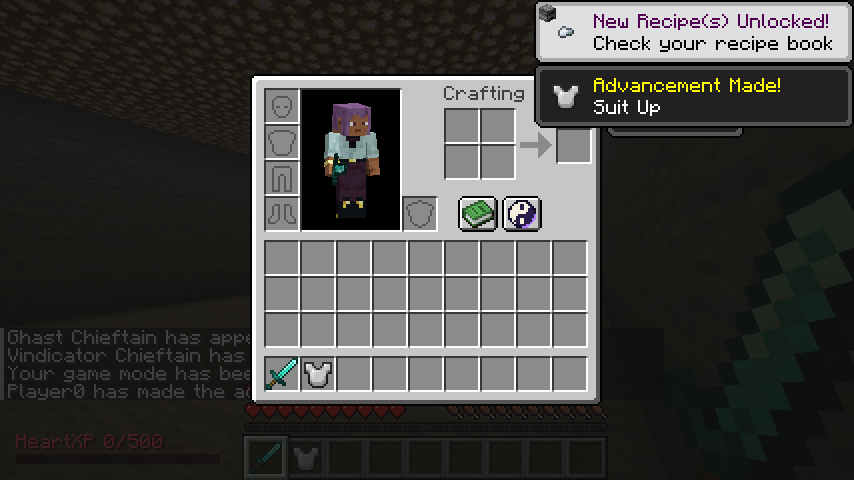
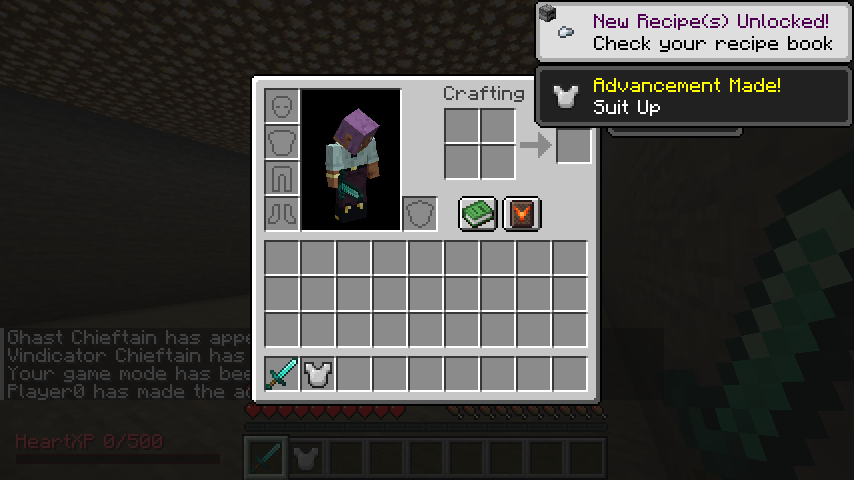
Cultivation button: stone tablet with spirit wings; Nether Star on the Stats tab (D40)

Changed region(s): [[0.3653, 0.2188, 0.4567, 0.4375], [0.5785, 0.4062, 0.6393, 0.4688]]

diff --git a/mods/permahearts/tools/make_stats_sprites.py b/mods/permahearts/tools/make_stats_sprites.py
@@ -1,12 +1,10 @@
-"""Draws the stats button and tab icon (D39): a taiji (yin-yang) symbol, the Daoist mark of cultivation.
+"""Draws the cultivation panel button (D40): a stone tablet in warm brown tones with red-orange spirit wings,
+on a rounded button in the style of the recipe book button. Original art (the Stats tab shows the Nether Star item).
 
-- stats/icon.png (16x16): the symbol, used on the Stats tab.
-- stats/button.png, stats/button_highlighted.png (20x18): a rounded button in the style of the recipe book button,
-  with the symbol on it.
+- stats/button.png, stats/button_highlighted.png (20x18)
 Run: python3 -I mods/permahearts/tools/make_stats_sprites.py
 """
 import importlib.util
-import math
 import os
 
 HERE = os.path.dirname(__file__)
@@ -17,40 +15,43 @@ write_png, rgba, CLEAR = hearts.write_png, hearts.rgba, hearts.CLEAR
 
 OUT = os.path.join(HERE, "..", "src", "main", "resources", "assets", "permahearts", "textures", "gui", "sprites", "stats")
 
-YANG = rgba("f6efdc")   # ivory
-YIN = rgba("2b1d4a")    # deep indigo
-RIM = rgba("120a24")    # outline
-GLOW = rgba("b07cff")   # violet qi on the rim's lower right
+SLAB = {"o": "211515", "k": "352323", "d": "49312b", "m": "584737", "l": "7a5d4c", "L": "947662"}
+EMBLEM = {"d": "8a1a0a", "m": "d43a10", "b": "ff6a1a", "h": "ffb04a"}
+WINGS = [  # 8x8, placed at (4, 4) on the tablet
+    "m......m",
+    "mb....bm",
+    ".mb..bm.",
+    ".mbhhbm.",
+    "..bhhb..",
+    "...bb...",
+    "...mm...",
+    "...dd...",
+]
 
 
-def taiji(size, radius):
-    """size x size image, taiji of the given radius centred in it."""
-    c = size / 2
-    img = [[CLEAR] * size for _ in range(size)]
-    for y in range(size):
-        for x in range(size):
-            px, py = x + 0.5, y + 0.5
-            d = math.hypot(px - c, py - c)
-            if d > radius:
+def tablet_icon():
+    """16x16: a stone tablet with chipped corners, light top-left edge, dark bottom-right, and the wings on it."""
+    img = [[CLEAR] * 16 for _ in range(16)]
+    for y in range(16):
+        for x in range(16):
+            if not (2 <= x <= 13 and 1 <= y <= 14) or (x in (2, 13) and y in (1, 14)):
                 continue
-            if d > radius - 1:
-                # rim: violet glow on the lower right, dark elsewhere
-                img[y][x] = GLOW if (px - c) + (py - c) > radius * 0.9 else RIM
-                continue
-            r2 = radius / 2
-            top = math.hypot(px - c, py - (c - r2))
-            bottom = math.hypot(px - c, py - (c + r2))
-            if top <= r2 * 0.36:
-                col = YIN       # dot in the yang head
-            elif bottom <= r2 * 0.36:
-                col = YANG      # dot in the yin head
-            elif top <= r2:
-                col = YANG
-            elif bottom <= r2:
-                col = YIN
+            edge = x in (2, 13) or y in (1, 14) or (x in (3, 12) and y in (1, 14)) or (y in (2, 13) and x in (2, 13))
+            if edge:
+                c = SLAB["o"]
+            elif y == 2 and x == 3:
+                c = SLAB["L"]
+            elif y == 2 or x == 3:
+                c = SLAB["l"]
+            elif y == 13 or x == 12:
+                c = SLAB["k"]
             else:
-                col = YANG if px < c else YIN
-            img[y][x] = col
+                c = SLAB["d"] if (x * 7 + y * 3) % 5 < 2 else SLAB["m"]
+            img[y][x] = rgba(c)
+    for y, row in enumerate(WINGS):
+        for x, ch in enumerate(row):
+            if ch != ".":
+                img[4 + y][4 + x] = rgba(EMBLEM[ch])
     return img
 
 
@@ -79,17 +80,16 @@ def button(highlighted):
         img[y][19] = edge
         for x in range(2, 18):
             img[y][x] = face
-    icon = taiji(14, 7)
-    for y in range(14):
-        for x in range(14):
-            if icon[y][x] != CLEAR:
-                img[2 + y][3 + x] = icon[y][x]
+    icon = tablet_icon()
+    for y in range(16):
+        for x in range(16):
+            if icon[y][x] != CLEAR and 1 <= y + 1 <= 16 and 1 <= x + 2 <= 18:
+                img[y + 1][x + 2] = icon[y][x]
     return img
 
 
 def main():
     os.makedirs(OUT, exist_ok=True)
-    write_png(os.path.join(OUT, "icon.png"), taiji(16, 7.5))
     write_png(os.path.join(OUT, "button.png"), button(False))
     write_png(os.path.join(OUT, "button_highlighted.png"), button(True))
     print("wrote stats sprites to", os.path.normpath(OUT))

diff --git a/mods/permahearts/src/client/java/io/github/huydangtruong/permahearts/client/StatsPanel.java b/mods/permahearts/src/client/java/io/github/huydangtruong/permahearts/client/StatsPanel.java
@@ -26,7 +26,7 @@ import net.minecraft.world.item.Items;
 import net.minecraft.world.item.ItemStack;
 
 /**
- * Cultivation panel (D31, D39): a rounded taiji button next to the recipe book button in the survival inventory opens a
+ * Cultivation panel (D31, D39, D40): a rounded tablet button next to the recipe book button in the survival inventory opens a
  * panel on the left with tabs like the recipe book's. Stats tab: each stat as "total (base +gear +cultivation)", the
  * Vitality bonus and the respawn point. Techniques tab: empty for now. Works like the recipe book: the inventory moves
  * right, and opening one closes the other. Data comes from the server (StatsSync), once a second.
@@ -53,7 +53,6 @@ public final class StatsPanel {
 
 	private static final Identifier BUTTON = Identifier.fromNamespaceAndPath("permahearts", "stats/button");
 	private static final Identifier BUTTON_HOVER = Identifier.fromNamespaceAndPath("permahearts", "stats/button_highlighted");
-	private static final Identifier TAIJI = Identifier.fromNamespaceAndPath("permahearts", "stats/icon");
 
 	/** Panel tabs, top to bottom. */
 	public enum Tab {
@@ -252,7 +251,7 @@ public final class StatsPanel {
 		};
 	}
 
-	/** Same size and rounded style as the recipe book button, with a taiji (tools/make_stats_sprites.py). */
+	/** Same size and rounded style as the recipe book button: a stone tablet with spirit wings (tools/make_stats_sprites.py). */
 	private static final class StatsButton extends Button {
 		StatsButton(InventoryScreen inv) {
 			super(0, 0, 20, 18, Component.literal("Cultivation"), b -> toggle(inv), DEFAULT_NARRATION);
@@ -267,7 +266,8 @@ public final class StatsPanel {
 
 	/** A tab on the panel's left edge, drawn with the vanilla recipe book tab sprites. */
 	private static final class TabButton extends Button {
-		private static final ItemStack BOOK = new ItemStack(Items.ENCHANTED_BOOK);
+		private static final ItemStack STAR = new ItemStack(Items.NETHER_STAR); // Stats tab (D40)
+		private static final ItemStack BOOK = new ItemStack(Items.ENCHANTED_BOOK); // Techniques tab
 		private final Tab tab;
 
 		TabButton(Tab t) {
@@ -283,11 +283,7 @@ public final class StatsPanel {
 			int x = getX() - (selected ? 2 : 0);
 			g.blitSprite(RenderPipelines.GUI_TEXTURED,
 				Identifier.withDefaultNamespace(selected ? "recipe_book/tab_selected" : "recipe_book/tab"), x, getY(), TAB_W, TAB_H);
-			if (tab == Tab.STATS) {
-				g.blitSprite(RenderPipelines.GUI_TEXTURED, TAIJI, x + 9, getY() + 5, 16, 16);
-			} else {
-				g.fakeItem(BOOK, x + 9, getY() + 5);
-			}
+			g.fakeItem(tab == Tab.STATS ? STAR : BOOK, x + 9, getY() + 5);
 		}
 	}
 }

diff --git a/docs/system/01-decisions.md b/docs/system/01-decisions.md
@@ -40,4 +40,5 @@
 | D36 | Trần 100 tim, thanh tim nhiều lớp | Trần ~~100~~ → **300** (D37). Trần tim **100** (thay D7). Thanh tim **tối đa 2 hàng** (20 tim): tim 21–40 vẽ đè lên tim 1–20 bằng màu **cam**, bắt đầu từ tim đầu tiên của hàng thứ nhất; 41–60 **hồng**, 61–80 **tím**, 81–100 **xanh dương**. Mất máu thì mất tim của lớp trên cùng trước (tim khác màu). Tới 20 tim vẫn y như vanilla. Trúng độc/wither/đóng băng thì mọi tim đổi màu như vanilla; tim vàng (absorption) nằm ở hàng phía trên; thanh giáp nằm ngay trên 2 hàng tim. Cần mod ở máy người chơi (người không có mod thấy thanh vanilla nhiều hàng) | 2026-11-14 |
 | D37 | Trần 300 tim, màu và hoạ tiết tim | Trần tim **300** (thay D36). Mỗi 20 tim một lớp, vẫn tối đa 2 hàng: 1–100 màu tươi (đỏ, cam, hồng, tím, xanh dương), 101–200 màu nhạt (**san hô, đào, hồng phấn, oải hương, bạc hà**), 201–300 tim hoạ tiết: **Hoa anh đào** (201–220), **Thiên hà** (221–240), ~~Lửa linh hồn (241–260), Lửa đỏ (261–280), Dung nham (281–300)~~ → sửa ở D38. Không dùng viền. Hình vẽ bằng `mods/permahearts/tools/make_heart_sprites.py` | 2026-11-14 |
 | D38 | Thứ tự tim 241–300 | 241–260 **Lửa xanh lá** (Lửa đỏ đổi màu, đặt trước Lửa linh hồn), 261–280 **Lửa linh hồn**, 281–300 **Huyết nham** (đỏ thẫm) là mức đỉnh; mẫu Huyết nham: **Giọt nham** (vỏ nguội đỏ đen ở trên, đáy rực sáng) | 2026-11-14 |
-| D39 | Nút và tab của bảng chỉ số | Nút mở bảng (cạnh nút sách công thức) đổi thành biểu tượng **Thái cực** (âm dương, viền ánh tím), **bo góc** cùng kiểu với nút sách công thức; tên/tooltip "Cultivation". Bảng bên trái có **tab** như sách công thức: tab 1 **Stats** (chỉ số như D31), tab 2 **Techniques** (chiêu thức, hiện để trống — Huy mô tả sau). Hình vẽ bằng `mods/permahearts/tools/make_stats_sprites.py` | 2026-11-14 |
+| D39 | Nút và tab của bảng chỉ số | Nút mở bảng (cạnh nút sách công thức) đổi thành biểu tượng ~~Thái cực~~ (→ D40), **bo góc** cùng kiểu với nút sách công thức; tên/tooltip "Cultivation". Bảng bên trái có **tab** như sách công thức: tab 1 **Stats** (chỉ số như D31), tab 2 **Techniques** (chiêu thức, hiện để trống — Huy mô tả sau). Hình vẽ bằng `mods/permahearts/tools/make_stats_sprites.py` | 2026-11-14 |
+| D40 | Biểu tượng nút và tab Stats | Nút mở bảng: **phiến đá** tông nâu ấm (như phiến của mẫu rèn Host) với biểu tượng **Cánh hồn** màu đỏ cam — hình tự vẽ, không chép texture của Minecraft. Tab Stats dùng vật phẩm **Nether Star** của game (tab Techniques vẫn là sách phép) | 2026-11-14 |

diff --git a/docs/workflow/playtest.md b/docs/workflow/playtest.md
@@ -60,6 +60,6 @@ Một cửa sổ Minecraft sẽ hiện ~30 giây rồi tự đóng. Ảnh nằm 
 
 ## Bảng tu luyện (D39)
 
-1. Mở túi đồ (Survival): cạnh nút sách công thức có nút Thái cực bo góc; rê chuột → nền xanh như nút bên cạnh, tooltip "Cultivation".
-2. Bấm: bảng trái mở, bên trái bảng có 2 tab. Tab Thái cực = Stats; tab sách = Techniques ("No techniques yet"). Bấm qua lại đổi nội dung.
+1. Mở túi đồ (Survival): cạnh nút sách công thức có nút phiến đá Cánh hồn bo góc (D40); rê chuột → nền xanh như nút bên cạnh, tooltip "Cultivation".
+2. Bấm: bảng trái mở, bên trái bảng có 2 tab. Tab Nether Star = Stats; tab sách = Techniques ("No techniques yet"). Bấm qua lại đổi nội dung.
 3. Cầm đồ trên chuột rồi bấm vào tab: đồ không bị rơi.

diff --git a/docs/mods/permahearts/spec.md b/docs/mods/permahearts/spec.md
@@ -81,5 +81,5 @@
 
 ## Bảng tu luyện (D39)
 
-- Nút Thái cực bo góc cạnh nút sách công thức ("Cultivation"). Bảng trái có 2 tab kiểu sách công thức: **Stats** (D31) và **Techniques** (trống, chờ mô tả chiêu thức).
+- Nút bo góc cạnh nút sách công thức ("Cultivation"): phiến đá nâu với Cánh hồn đỏ cam (D40). Tab Stats có biểu tượng Nether Star. Bảng trái có 2 tab kiểu sách công thức: **Stats** (D31) và **Techniques** (trống, chờ mô tả chiêu thức).
 - Ảnh: `docs/screens/stats-button.png`, `stats-panel.png`, `techniques-tab.png`.
